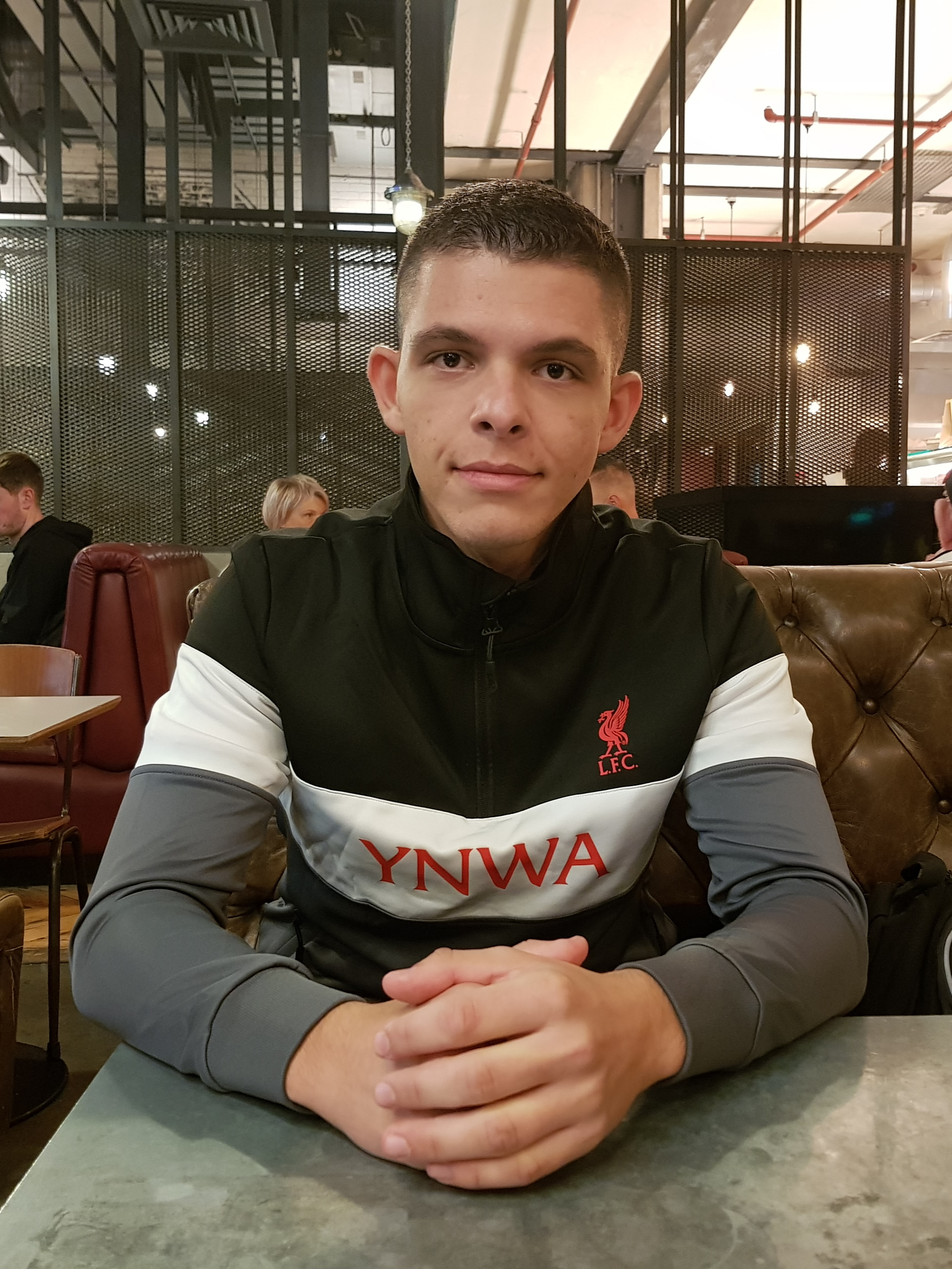
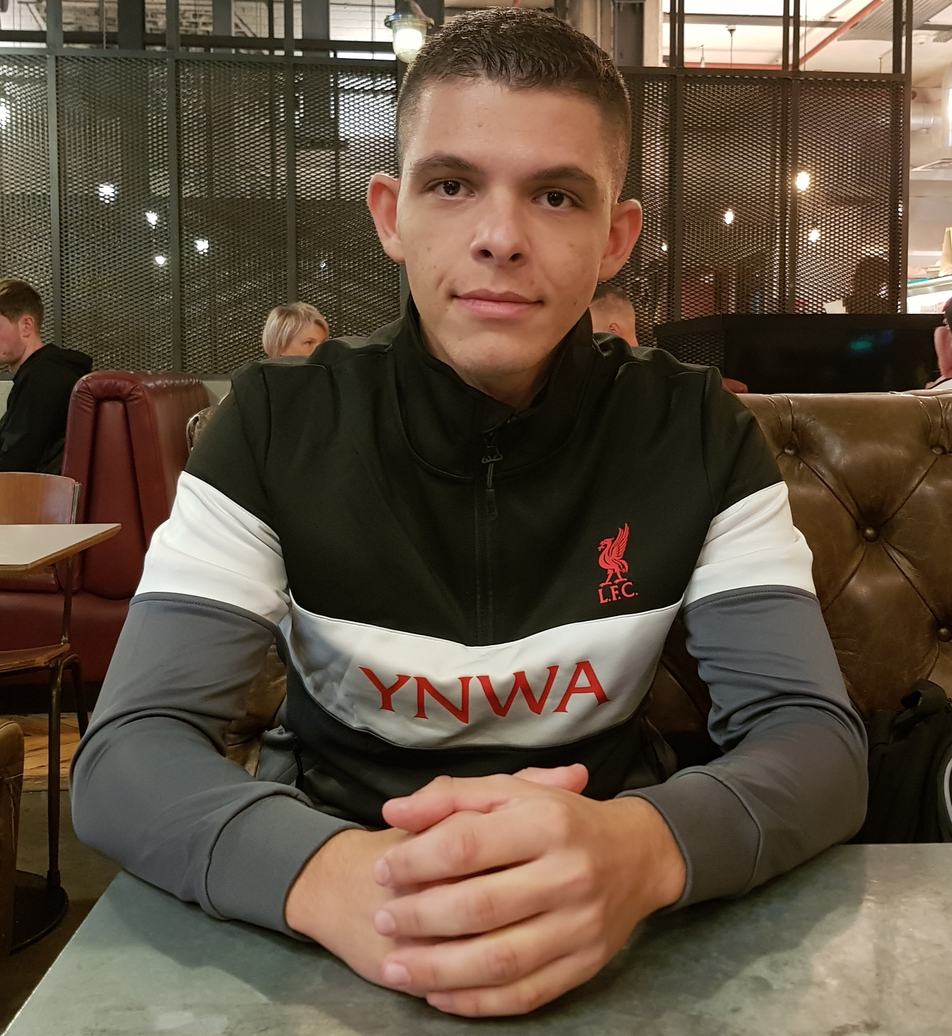
Fixed scaling issues with home section (#12)
Fixed scaling of the home section for all different resolutions up to 4k monitors. Also fixed the aspect ratio of my image to remove stretching effects.

diff --git a/src/components/sections/home/Home.css b/src/components/sections/home/Home.css
@@ -11,10 +11,8 @@
 }
 
 .background-layer-1 {
-  display: flex;
-  flex-direction: column;
   width: 33.3%;
-  height: 100%;
+  height: 54em;
   background-color: #2d3142;
   justify-content: center;
   z-index: -2;
@@ -23,8 +21,8 @@
 .background-layer-2 {
   width: 0;
   height: 0;
-  border-bottom: 95vh solid #2d3142;
-  border-right: 33.3vw solid transparent;
+  border-bottom: 54em solid #2d3142;
+  border-right: 30em solid transparent;
   z-index: -3;
 }
 
@@ -32,7 +30,7 @@
   display: flex;
   flex-direction: column;
   width: 33.4%;
-  height: 100%;
+  height: 54em;
   background-color: white;
   justify-content: center;
   align-items: center;
@@ -40,10 +38,10 @@
 }
 
 .background-layer-3 img {
-  margin-right: auto;
+  margin-left: auto;
   border-radius: 50%;
-  width: 90%;
-  height: 24rem;
+  width: 40em;
+  height: 40em;
   box-shadow: 0 4px 8px 0 rgba(0, 0, 0, 0.3), 0 6px 20px 0 rgba(0, 0, 0, 0.25);
 }
 
@@ -52,12 +50,13 @@
   to   { opacity: 1; }
 }
 
-.background-layer-1 h1 {
-  position: relative;
-  left: 6.5vw;
+.home-container h1 {
+  position: absolute;
+  left: 2.5em;
+  top: 4em;
   font-family: 'Source Sans Pro', sans-serif;
   color: white;
-  font-size: 36pt;
+  font-size: 56pt;
   animation: fadein 4s;
 }
 
@@ -67,9 +66,10 @@
   50% { border-color: #ef8354; }
 }
 
-.background-layer-1 h3 {
-  position: relative;
-  left: 6.5vw;
+.home-container h3 {
+  position: absolute;
+  left: 5.1em;
+  top: 14em;
   font-family: 'Source Sans Pro', sans-serif;
   overflow: hidden; /* Ensures the content is not revealed until the animation */
   border-right: .15em solid orange; /* The typwriter cursor */
@@ -78,12 +78,92 @@
   letter-spacing: .15em; /* Adjust as needed */
   animation: blink-caret .75s step-end infinite;
   color: white;
-  font-size: 18pt;
+  font-size: 28pt;
+}
+
+@media only screen and (max-width: 120em) {
+  .background-layer-3 img {
+    margin-right: auto;
+    width: 25em;
+    height: 25em;
+  }
+
+  @keyframes fadein {
+    from { opacity: 0; }
+    to   { opacity: 1; }
+  }
+
+  .home-container h1 {
+    top: 7em;
+    font-size: 36pt;
+  }
+
+  /* The typewriter cursor effect */
+  @keyframes blink-caret {
+    from, to { border-color: transparent }
+    50% { border-color: #ef8354; }
+  }
+
+  .home-container h3 {
+    top: 20em;
+    font-size: 18pt;
+  }
+}
+
+/* 2K laptop resolution. */
+@media only screen and (max-width: 90em) {
+  .background-layer-1 {
+    height: 100%;
+  }
+
+  .background-layer-2 {
+    border-bottom: 40em solid #2d3142;
+    border-right: 25em solid transparent;
+  }
+
+  .background-layer-3 {
+    width: 33.4%;
+    height: 100%;
+  }
+
+  .background-layer-3 img {
+    width: 16em;
+    height: 16em;
+  }
+
+  @keyframes fadein {
+    from { opacity: 0; }
+    to   { opacity: 1; }
+  }
+
+  .home-container h1 {
+    top: 5em;
+  }
+
+  /* The typewriter cursor effect */
+  @keyframes blink-caret {
+    from, to { border-color: transparent }
+    50% { border-color: #ef8354; }
+  }
+
+  .home-container h3 {
+    top: 15em;
+  }
+}
+
+@media only screen and (max-width: 75em) {
+  .home-container h1 {
+    left: 1.5em;
+  }
+
+  .home-container h3 {
+    left: 3.15em;
+  }
 }
 
 /* Change home section presentation when width of screen reaches
    the limit for the h3 text. */
-@media only screen and (max-width: 59em) {
+@media only screen and (max-width: 67.2em) {
   .home-background {
     flex-direction: column;
   }
@@ -91,14 +171,10 @@
   .background-layer-1 {
     width: 100%;
     height: 32%;
-    background-color: #2d3142;
-    justify-content: center;
   }
 
   .background-layer-2 {
-    width: 0;
-    height: 0;
-    border-top: 26vh solid #2d3142;
+    border-top: 18em solid #2d3142;
     border-right: 100vw solid transparent;
     border-bottom: none;
   }
@@ -106,45 +182,49 @@
   .background-layer-3 {
     width: 100%;
     height: 38%;
-    background-color: white;
   }
 
   .background-layer-3 img {
     margin-bottom: auto;
-    margin-right: auto;
-    margin-left: auto;
     height: 14rem;
     width: 14rem;
   }
 
-  .background-layer-1 h1 {
-    position: relative;
-    left: 0vw;
-    font-family: 'Source Sans Pro', sans-serif;
+  .home-container h1 {
+    top: 3em;
+    left: calc(50% - 3em);
     margin: 2rem auto; /* Gives that scrolling effect as the typing happens */
-    color: white;
     font-size: 32pt;
-    animation: fadein 4s;
   }
 
-  .background-layer-1 h3 {
-    position: relative;
-    left: 0vw;
+  .home-container h3 {
+    top: 11em;
+    left: calc(50% - 9em);
     font-size: 16pt;
   }
 }
 
 /* Change home section title font sizes when width of screen reaches
    the limit for the h3 text. */
-@media only screen and (max-width: 25.6em) {
-  .background-layer-1 h1 {
+@media only screen and (max-width: 50.75em) {
+  .background-layer-2 {
+    border-top: 6em solid #2d3142;
+  }
+
+  .home-container h1 {
+    top: 4em;
     font-size: 24pt;
   }
 
-  .background-layer-1 h3 {
+  .home-container h3 {
+    top: 15em;
     font-size: 11pt;
   }
 }
+
+/* @media only screen and (max-width: 40em) {
+  
+} */
 
 @media only screen and (max-height: 30em) {
   .background-layer-1 h1 {

diff --git a/src/components/sections/home/Home.js b/src/components/sections/home/Home.js
@@ -6,15 +6,14 @@ const Home = () => {
   return (
     <div className='home-container'>
       <div className='home-background'>
-        <div className='background-layer-1'>
-          <h1>Hi, I'm Granit</h1>
-          <h3>Welcome to my portfolio page.</h3>
-        </div>
+        <div className='background-layer-1'></div>
         <div className='background-layer-2'></div>
         <div className='background-layer-3'>
           <img src={profileImage} alt='#'></img>
         </div>
       </div>
+      <h1>Hi, I'm Granit</h1>
+      <h3>Welcome to my portfolio page.</h3>
     </div>
   );
 }

diff --git a/src/components/sections/about/About.css b/src/components/sections/about/About.css
@@ -1,6 +1,7 @@
 .about-container {
   width: 100%;
   height: 100%;
+  margin-top: 13em;
 }
 
 .about-background {
@@ -19,6 +20,14 @@
   display: grid;
   grid-template-columns: auto auto;
   grid-gap: 3rem;
+}
+
+/* 2K laptop resolution. */
+@media only screen and (max-width: 90em) {
+  .about-container {
+    margin-top: 0;
+  }
+
 }
 
 @media only screen and (max-width: 45em) {

diff --git a/src/App.css b/src/App.css
@@ -7,7 +7,7 @@ section.content {
 section.content .home {
   display: block;
   width: 100%;
-  height: 95vh;
+  height: 40em;
 }
 
 section.content .about {
